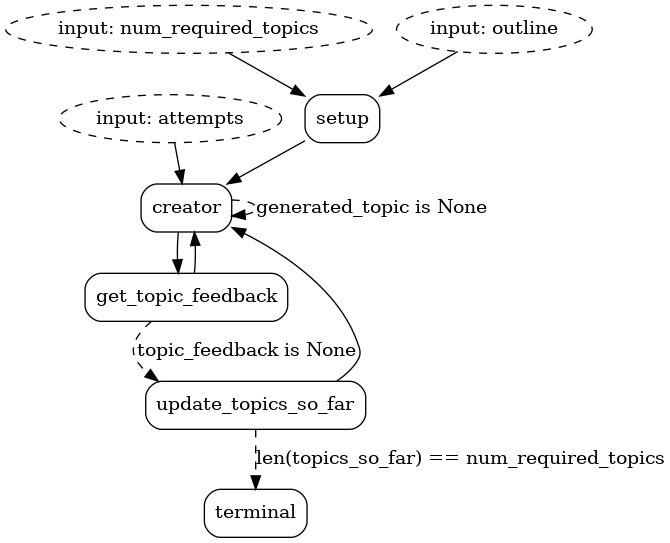
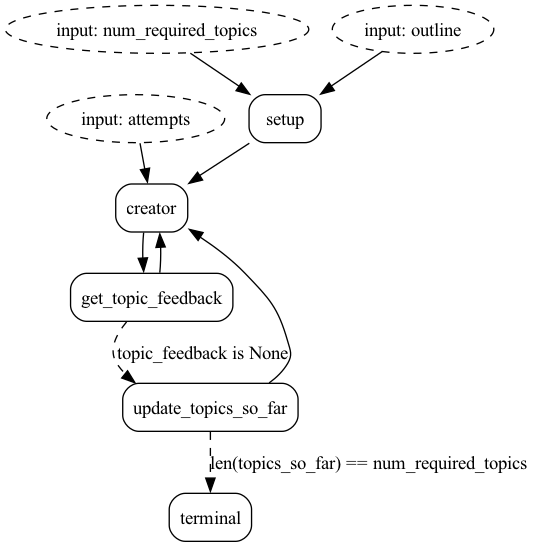
--amend

diff --git a/examples/instructor-gemini-flash/application.py b/examples/instructor-gemini-flash/application.py
@@ -1,4 +1,3 @@
-import time
 from copy import deepcopy
 from typing import Annotated
 
@@ -180,14 +179,7 @@ def creator(
         max_retries=attempts,
         temperature=TEMPERATURE,
     )
-    try:
-        res = ask_gemini.create(**create_kwargs)  # type: ignore
-    except Exception as e:
-        print(f"ERROR in creator: {e}")
-        # if the model fails to generate a response even after multiple attempts, we will return None
-        # creator will be called again until a valid response is generated
-        return {"generated_topic": None}, state.update(generated_topic=None)
-    # add the user message and the generated topic to the chat history
+    res = ask_gemini.create(**create_kwargs)
     return {"generated_topic": res}, state.update(generated_topic=res).append(
         chat_history={"role": "user", "content": user_message}
     ).append(chat_history={"role": "assistant", "content": str(res)})
@@ -247,8 +239,6 @@ def application(
         .with_actions(setup, creator, get_topic_feedback, update_topics_so_far, terminal)
         .with_transitions(
             ("setup", "creator"),
-            # go to creator again if the generated topic is None
-            ("creator", "creator", expr("generated_topic is None")),  # type: ignore
             # get feedback if the generated topic is not None
             ("creator", "get_topic_feedback"),
             # if the feedback is empty, add the generated topic to the list of topics generated so far
